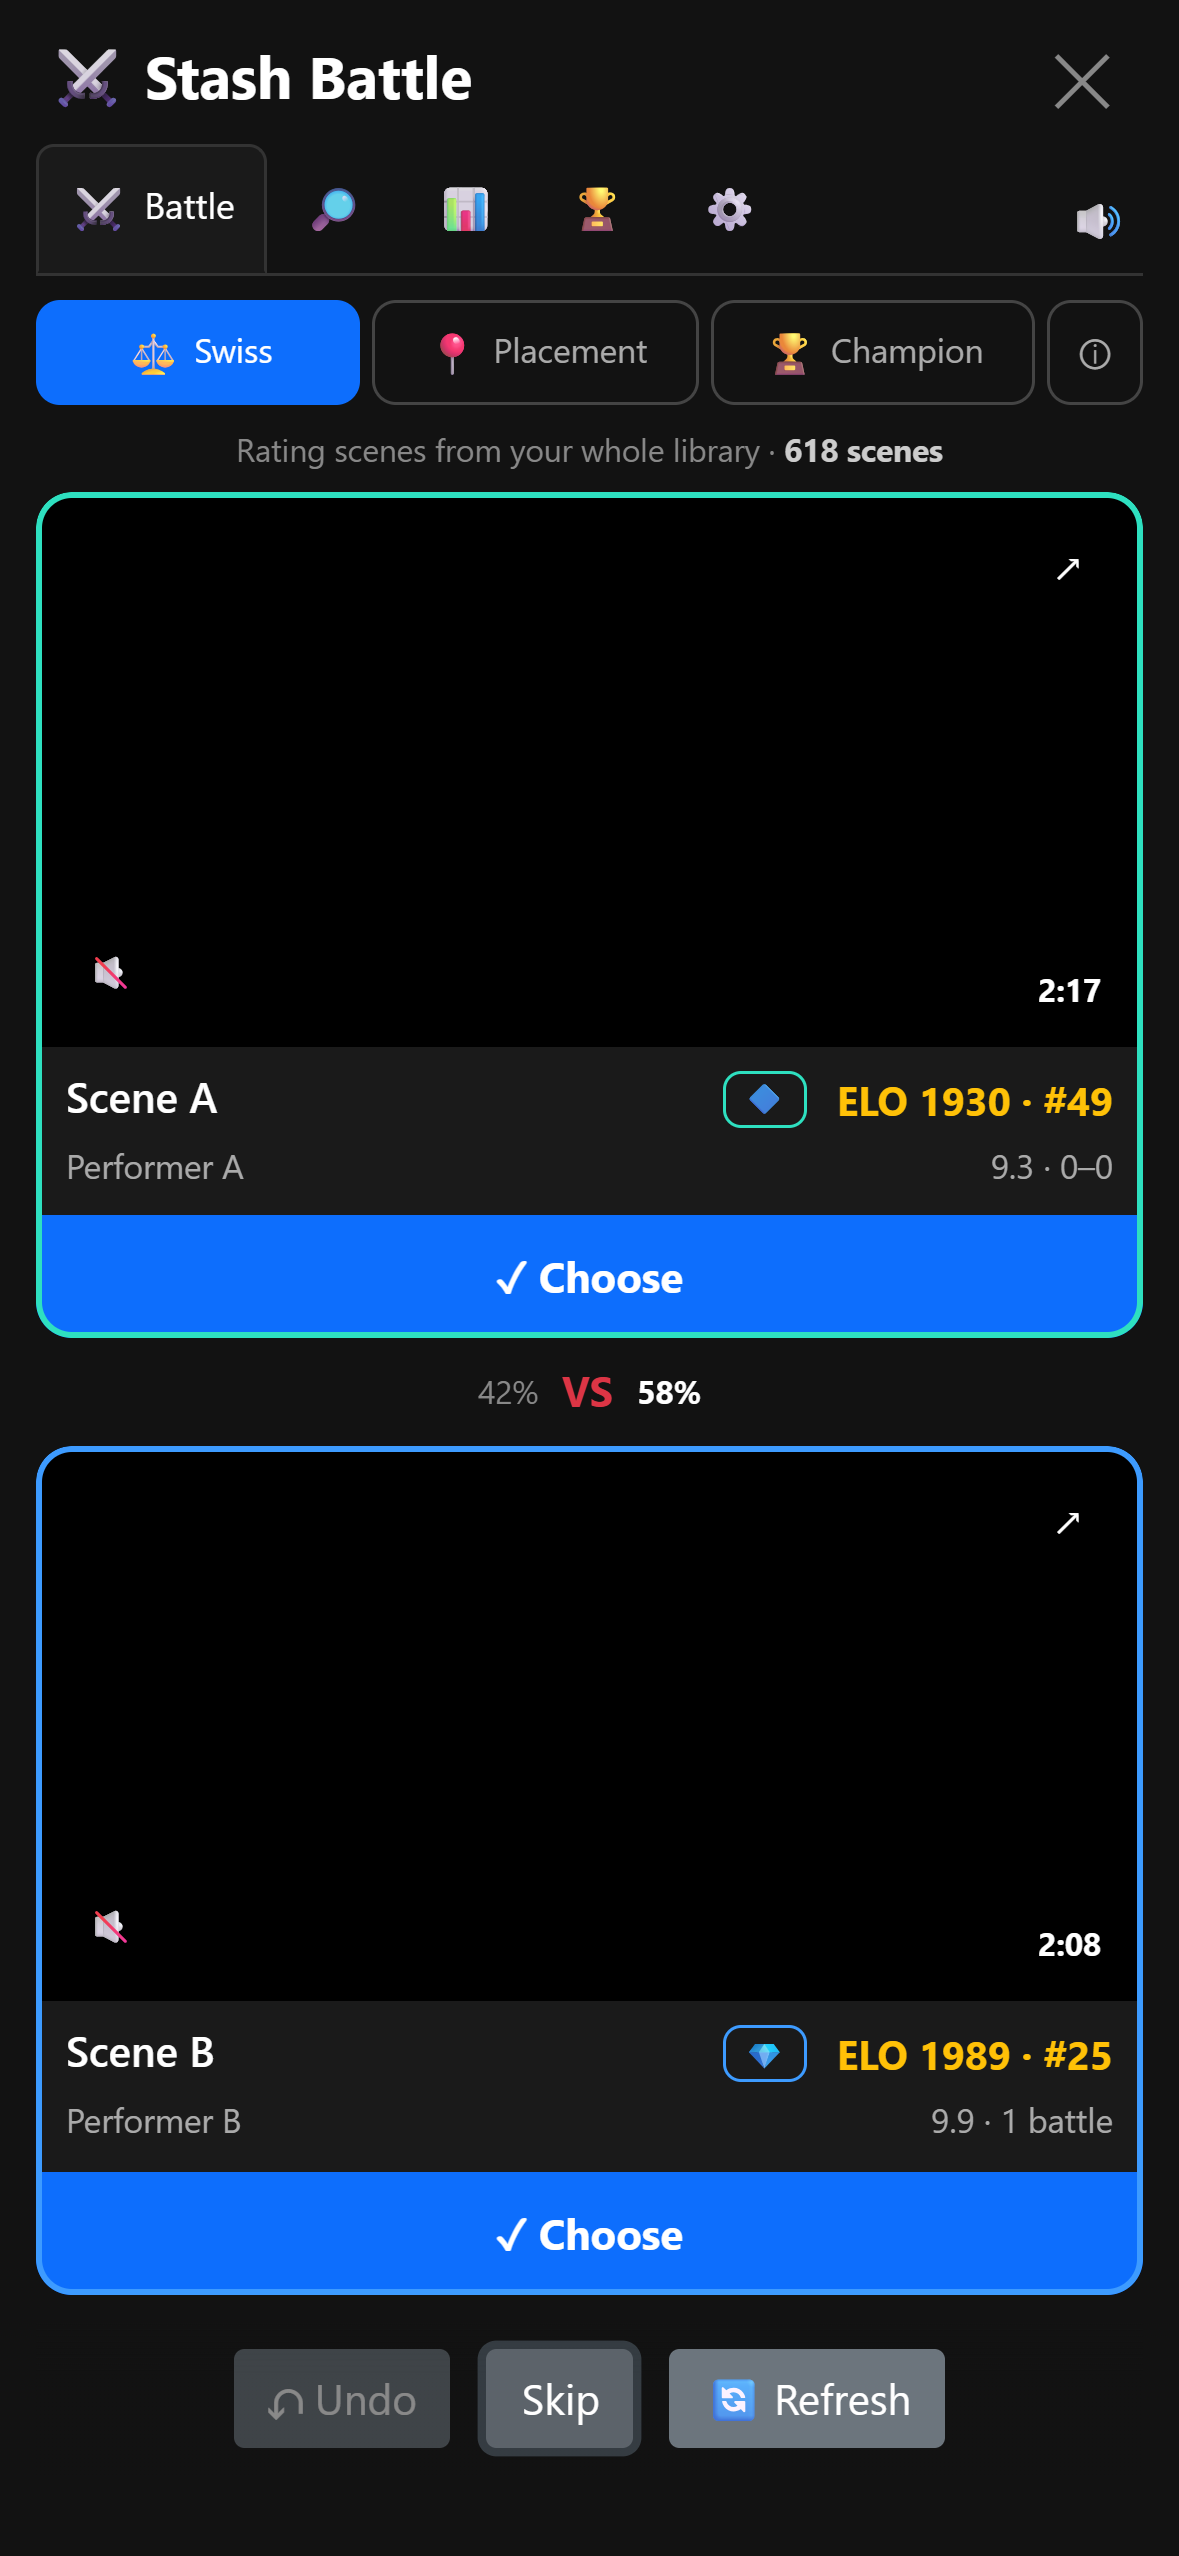
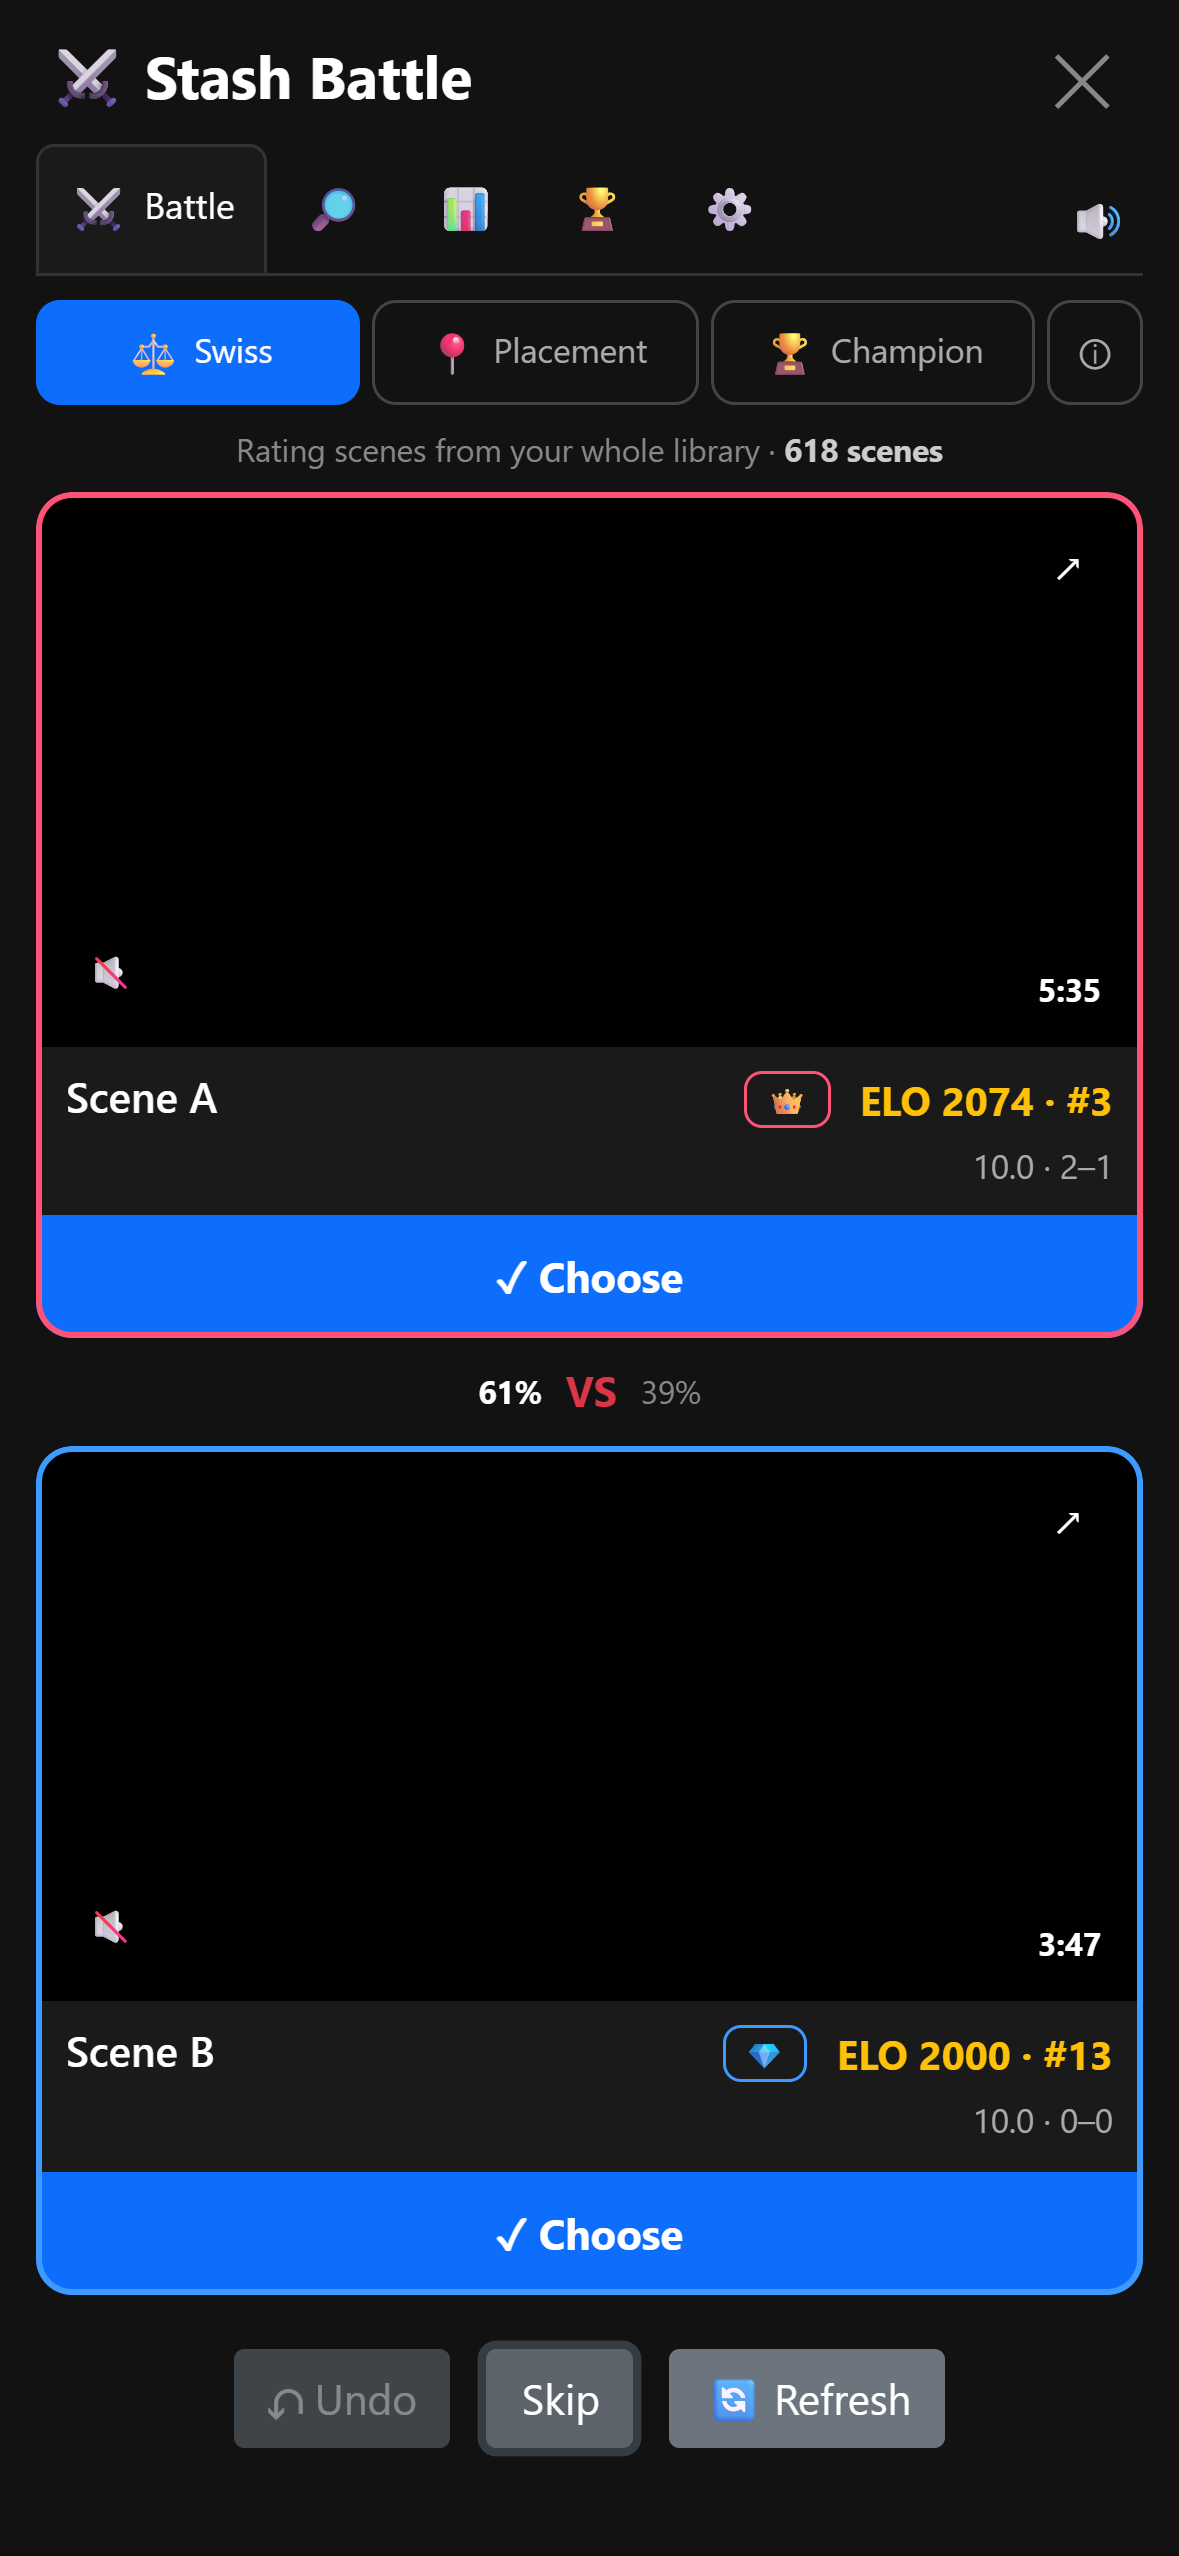
Phone cards show the scene's first detail: studio, else performers, else tags.
The one-line phone card used to always show performers ("No performers"
in libraries without any). It now shows the first detail the scene has,
or nothing, beside the rating and record.

diff --git a/plugins/stash-battle/stash-battle.js b/plugins/stash-battle/stash-battle.js
@@ -2240,6 +2240,7 @@
     const performers = scene.performers && scene.performers.length > 0 ? scene.performers.map((p) => p.name).join(", ") : "No performers";
     const studio = scene.studio ? scene.studio.name : "No studio";
     const tags = scene.tags ? scene.tags.slice(0, 5).map((t) => t.name) : [];
+    const compactDetail = scene.studio?.name || (scene.performers?.length ? performers : "") || tags.join(", ");
     const title = resolveSceneTitle(scene);
     const screenshotPath = scene.paths ? scene.paths.screenshot : null;
     const previewPath = scene.paths ? scene.paths.preview : null;
@@ -2293,6 +2294,7 @@
               <div class="sb-meta-item sb-meta-plays"><strong>Play Count:</strong> ${scene.play_count || 0}</div>
               <div class="sb-meta-item sb-meta-battles">${record !== null ? `<strong>Record:</strong> ${record}` : `<strong>Battles:</strong> ${battles(scene)}`}</div>
               <div class="sb-meta-item sb-meta-rating"><strong>Stash Rating:</strong> ${stashRating}<span class="sb-meta-record-inline"> · ${record !== null ? `<strong>Record:</strong> ${record}` : `${battles(scene)} battle${battles(scene) === 1 ? "" : "s"}`}</span></div>
+              <div class="sb-meta-item sb-meta-compact">${compactDetail}</div>
               <div class="sb-meta-item sb-meta-studio"><strong>Studio:</strong> ${studio}</div>
               <div class="sb-meta-item sb-meta-performers"><strong>Performers:</strong> ${performers}</div>
               <div class="sb-meta-item sb-tags-row"><strong>Tags:</strong> ${tags.length > 0 ? tags.map((tag) => `<span class="sb-tag">${tag}</span>`).join("") : '<span class="sb-none">None</span>'}</div>

diff --git a/src/ui/sceneCard.ts b/src/ui/sceneCard.ts
@@ -44,6 +44,9 @@ export function createSceneCard(
       : "No performers";
   const studio = scene.studio ? scene.studio.name : "No studio";
   const tags = scene.tags ? scene.tags.slice(0, 5).map((t) => t.name) : [];
+  // Phones have room for one detail beside the rating: the first the scene has (studio, then
+  // performers, then tags), or none
+  const compactDetail = scene.studio?.name || (scene.performers?.length ? performers : "") || tags.join(", ");
 
   const title = resolveSceneTitle(scene);
 
@@ -117,6 +120,7 @@ export function createSceneCard(
               <div class="sb-meta-item sb-meta-plays"><strong>Play Count:</strong> ${scene.play_count || 0}</div>
               <div class="sb-meta-item sb-meta-battles">${record !== null ? `<strong>Record:</strong> ${record}` : `<strong>Battles:</strong> ${battles(scene)}`}</div>
               <div class="sb-meta-item sb-meta-rating"><strong>Stash Rating:</strong> ${stashRating}<span class="sb-meta-record-inline"> · ${record !== null ? `<strong>Record:</strong> ${record}` : `${battles(scene)} battle${battles(scene) === 1 ? "" : "s"}`}</span></div>
+              <div class="sb-meta-item sb-meta-compact">${compactDetail}</div>
               <div class="sb-meta-item sb-meta-studio"><strong>Studio:</strong> ${studio}</div>
               <div class="sb-meta-item sb-meta-performers"><strong>Performers:</strong> ${performers}</div>
               <div class="sb-meta-item sb-tags-row"><strong>Tags:</strong> ${tags.length > 0 ? tags.map((tag) => `<span class="sb-tag">${tag}</span>`).join("") : '<span class="sb-none">None</span>'}</div>

diff --git a/plugins/stash-battle/stash-battle.css b/plugins/stash-battle/stash-battle.css
@@ -1501,6 +1501,11 @@
 }
 
 /* The record joins the rating line where its own line is hidden (tablets, phones, short screens) */
+/* Phones only (see the 640px block) */
+.sb-meta-compact {
+  display: none;
+}
+
 .sb-meta-record-inline {
   display: none;
 }
@@ -2171,21 +2176,26 @@ body.sb-battle-open > .modal {
     font-size: 0.8rem;
   }
 
-  .sb-meta-studio {
+  .sb-meta-studio,
+  .sb-meta-performers {
     display: none;
   }
 
-  .sb-meta-performers {
+  /* One line: the scene's first detail (studio, performers or tags) on the left, then the rating
+     and record (they come first elsewhere) */
+  .sb-meta-compact {
+    display: block;
     flex: 1;
     min-width: 0;
+    overflow: hidden;
+    text-overflow: ellipsis;
+    white-space: nowrap;
   }
 
-  /* One line: performers on the left, then the rating and record (they come first elsewhere) */
   .sb-meta-rating {
     order: 1;
   }
 
-  .sb-meta-performers strong,
   .sb-meta-rating strong {
     display: none;
   }

diff --git a/DOCUMENTATION.md b/DOCUMENTATION.md
@@ -453,7 +453,7 @@ Touch screens have no hover, so `(hover: none)` shows an **ⓘ** button at the e
 - Cards sit side by side down to 640px wide; the card row's max width is tied to viewport height (`calc(135vh + 120px)`) so 16:9 thumbnails don't push the choose buttons off short screens.
 - `max-height: 900px` (laptops): compact header (smaller title, no mode descriptions), play count, battles and tags hidden.
 - `≤1000px`: play count, battles and tags hidden, smaller VS.
-- `≤640px` (phones): full-screen modal (`100dvh`), stacked compact cards (2:1 thumbnails, one meta line, short "✓ Choose"), the VS pill (with the win chances) sits centred in an 18px gap between the cards (8px clear of each), mode buttons as a segmented row, compact tab bar; the Stash ratings dropdown and Reset ELO rows stack.
+- `≤640px` (phones): full-screen modal (`100dvh`), stacked compact cards (2:1 thumbnails, one meta line: the scene's first detail among studio, performers and tags (`.sb-meta-compact`, empty when it has none) on the left, the rating and record on the right; short "✓ Choose"), the VS pill (with the win chances) sits centred in an 18px gap between the cards (8px clear of each), mode buttons as a segmented row, compact tab bar; the Stash ratings dropdown and Reset ELO rows stack.
 - Phones: the modal's sideways scroll is pinned to 0 (focus or scroll-into-view could shift an `overflow-x: hidden` box), and charts clip to their own box.
 
 ### Rating Animations
